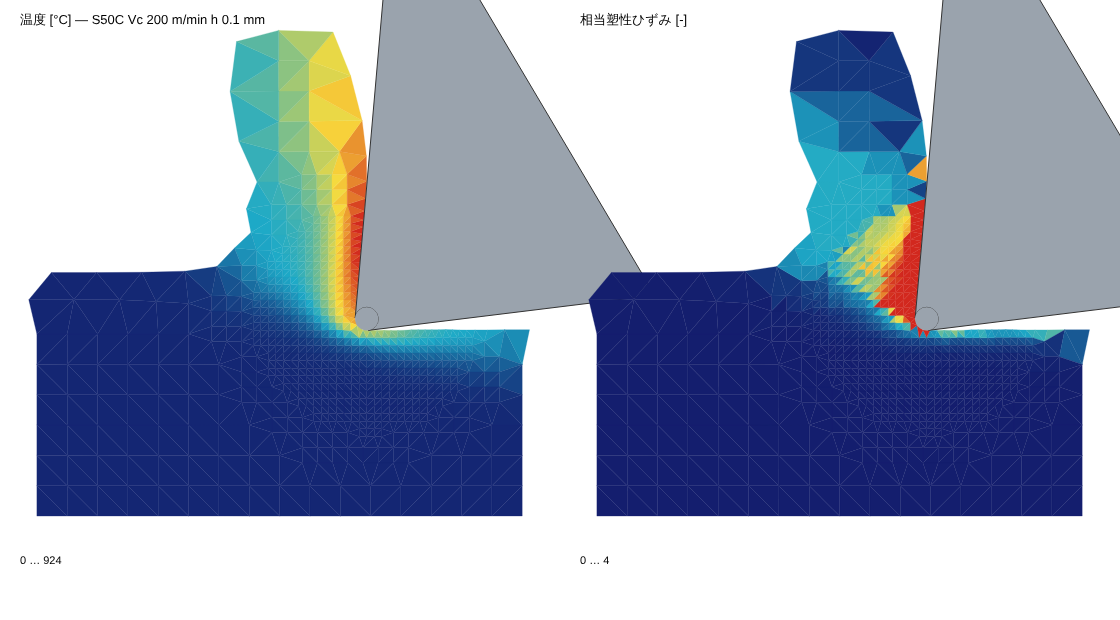
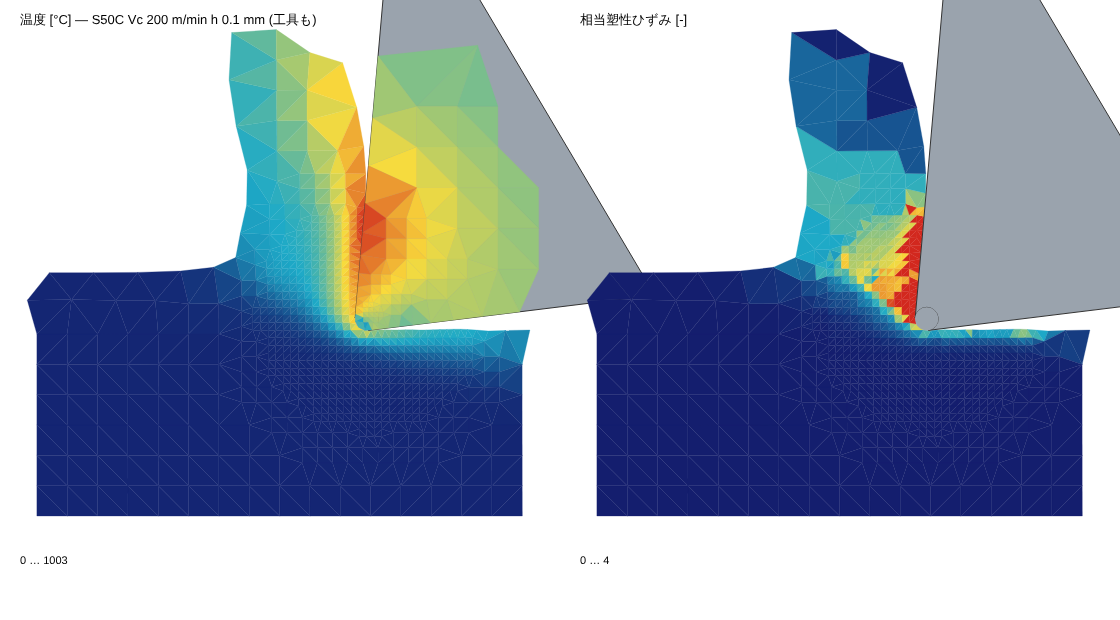
Warmed-up tool temperature in the app and the figures; coefficient generation marked experimental; README
Claude-Session: https://claude.ai/code/session_013KuuZjBxBke1YF2qZuFMAx

diff --git a/native/app/ui/index.html b/native/app/ui/index.html
@@ -64,7 +64,7 @@ td:first-child, th:first-child { text-align: left; font-family: var(--font); }
       <div class="btns"><button id="run">計算する</button><button id="stop" class="ghost" disabled>止める</button></div>
       <p class="hint">温度の図の工具は、使い続けて温まった後の温度 (接触面は切りくずと同じ温度、刃先から 2 mm 先は室温として、工具の中の定常の熱の流れを解いたもの) です。2 次元の平面ひずみ (幅 1 mm あたり)。Johnson–Cook の材料定数、刃先丸みつきの剛体工具、付着–すべり摩擦 (摩擦応力は μ×面圧と材料のせん断強さの小さいほう)、塑性発熱と熱伝導。要素がつぶれる前に自動で作り直します。力は工具に働く力で、主分力 Fc は切削方向、背分力 Ft は仕上げ面に垂直。</p>
       <p class="hint" id="status"></p>
-      <h2 style="margin-top:14px">フライス加工の切削係数</h2>
+      <h2 style="margin-top:14px">フライス加工の切削係数 <span style="font-size:11px;color:var(--accent)">試験的</span></h2>
       <div class="row"><label for="helix">ねじれ角 [°]</label><input id="helix" type="number" value="30" min="0" max="60" step="5"></div>
       <div class="row"><label for="hs">切取り厚さ [mm]</label><input id="hs" type="text" value="0.09, 0.12, 0.16, 0.2"></div>
       <div class="btns"><button id="coefRun">係数を求める</button><button id="coefApply" class="ghost" disabled>フライス加工で使う</button></div>
@@ -74,7 +74,7 @@ td:first-child, th:first-child { text-align: left; font-family: var(--font); }
       <div class="card"><h2>分布 <span class="seg" id="fieldSel"><button data-f="temp" aria-pressed="true">温度</button><button data-f="ep" aria-pressed="false">塑性ひずみ</button><button data-f="mises" aria-pressed="false">相当応力</button></span></h2><canvas id="cvField"></canvas></div>
       <div class="card"><h2>切削抵抗 (幅 1 mm あたり)</h2><canvas id="cvHist"></canvas></div>
       <div class="card"><h2>定常値 (後半 40 % の平均)</h2><div id="result" class="hint">まだ計算していません。</div></div>
-      <div class="card"><h2>フライス加工の切削係数</h2><div id="coefOut" class="hint">「係数を求める」で計算します。</div></div>
+      <div class="card"><h2>フライス加工の切削係数</h2><div id="coefOut" class="hint">「係数を求める」で計算します。<b>試験的な機能です</b>: 主分力とせん断角は Oxley 理論とよく合いますが、背分力 (Krc、Kre) とエッジ係数 (Kte) はまだ信頼できず、切取り厚さ 0.06 mm 以下では計算が不安定です。フライス加工に使う前に、表の値や「材料定数から予測 (Oxley)」と見比べてください。</div></div>
     </div>
   </section>
 </main>

diff --git a/native/crates/chipfem/tests/toolheat.rs b/native/crates/chipfem/tests/toolheat.rs
@@ -1,11 +1,25 @@
-//! The tool's thermal mesh: a usable explicit step, and conduction to the held far end.
+//! The warmed-up tool's temperature (steady conduction from the contact): bounded by the contact
+//! temperatures, hottest at the contact, room temperature at the held end.
 use chipfem::cutting::{CutParams, Cutting};
 use chipfem::Material;
 
 #[test]
-fn tool_mesh_allows_a_step_near_the_mechanical_one() {
-    let c = Cutting::new(Material::preset("S50C").unwrap(), CutParams::new(200.0, 0.06, 5.0));
-    let th = c.solver.tool_heat.as_ref().unwrap();
-    println!("tool mesh: {} nodes, {} elements, {} surface nodes; thermal step {:.2e} s, mechanical {:.2e} s", th.mesh.x.len(), th.mesh.tri.len(), th.surface.len(), c.solver.tool_dt, c.solver.dt);
-    assert!(c.solver.tool_dt > 0.2 * c.solver.dt);
+fn warmed_up_tool_lies_between_the_contact_and_the_held_end() {
+    let mut p = CutParams::new(200.0, 0.1, 5.0);
+    p.mu = 0.6;
+    p.length = 0.5;
+    let mut c = Cutting::new(Material::preset("S50C").unwrap(), p);
+    c.run(0.05, |_, _| true);
+    let th = c.tool_steady(2.0);
+    let t_work = c.solver.temp.iter().cloned().fold(f64::MIN, f64::max);
+    let t_tool = th.max_temp();
+    let t_min = th.temp.iter().cloned().fold(f64::MAX, f64::min);
+    println!("tool: {} nodes, highest {:.0} °C, lowest {:.0} °C; work highest {:.0} °C", th.mesh.x.len(), t_tool, t_min, t_work);
+    assert!(t_tool > 200.0 && t_tool <= t_work + 1e-6, "tool {t_tool} °C, work {t_work} °C");
+    assert!((t_min - 20.0).abs() < 1e-6, "the held end is at room temperature");
+    // the hottest point of the tool is on its surface near the edge (within 0.5 mm)
+    let (i, _) = th.temp.iter().enumerate().fold((0, f64::MIN), |b, (i, &t)| if t > b.1 { (i, t) } else { b });
+    assert!(th.surface.contains(&i));
+    let x = th.mesh.x[i];
+    assert!(x[0].hypot(x[1]) < 0.5);
 }
